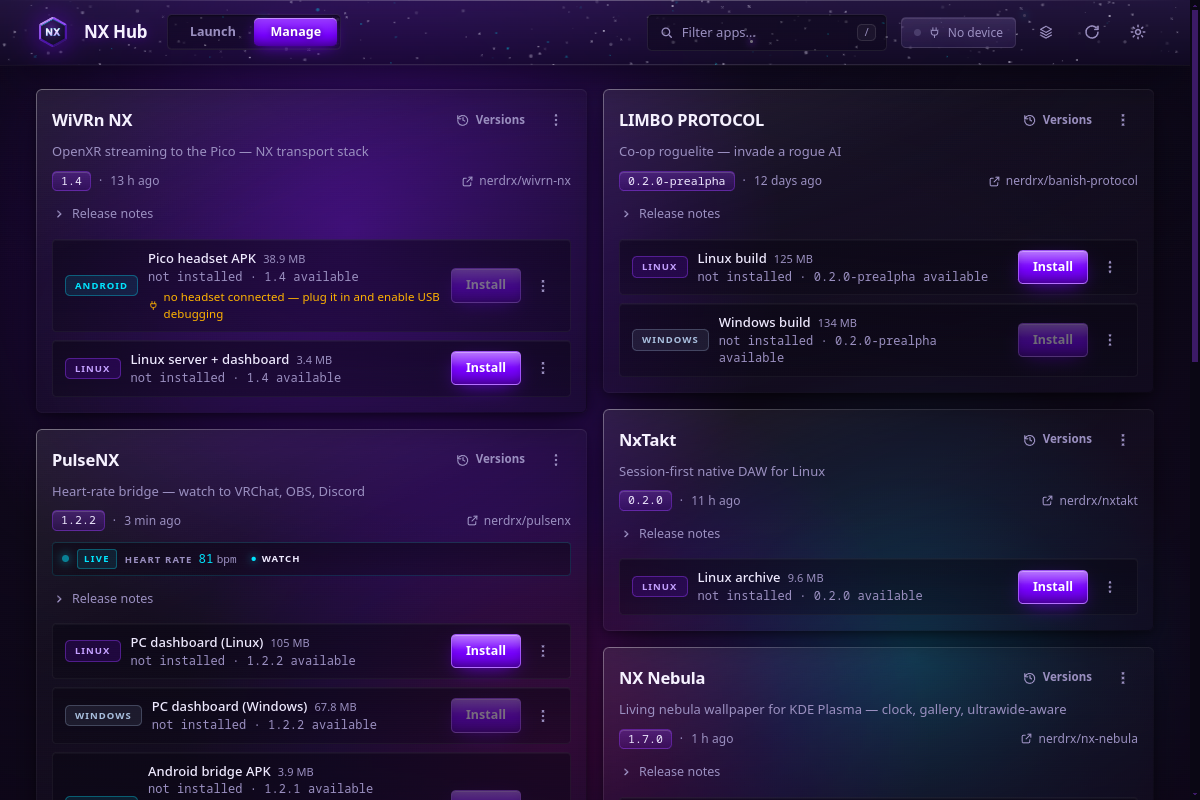
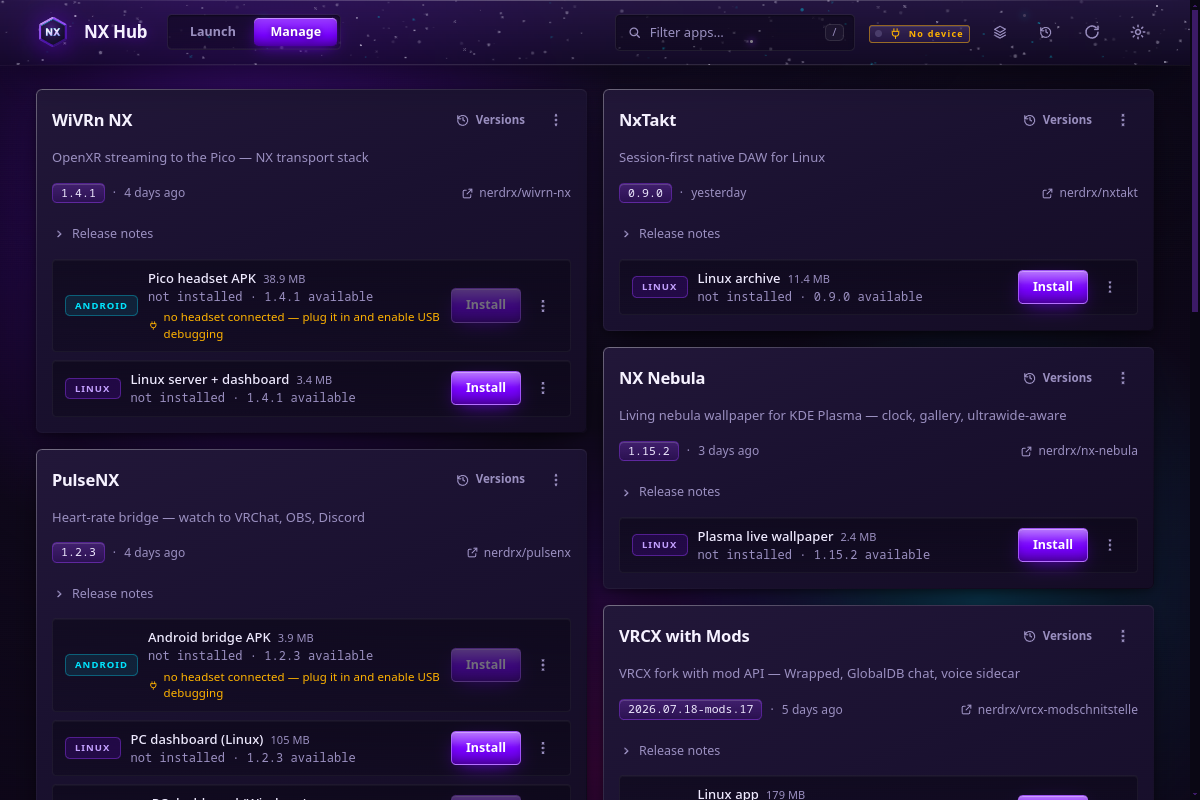
v0.9.0: §12's opacity rule promoted app-wide — structural surfaces are opaque elevation steps (--surface-1), floating glass fills ≥0.85; DESIGN v1.5; design doc + connector client now ship in the bundle

diff --git a/src/renderer/styles.css b/src/renderer/styles.css
@@ -44,10 +44,16 @@
   --glass-bar: linear-gradient(180deg, rgba(46, 30, 78, 0.62) 0%, rgba(18, 11, 34, 0.72) 100%);
   --glass-1: linear-gradient(157deg, rgba(255, 255, 255, 0.09) 0%, rgba(255, 255, 255, 0.026) 34%,
       rgba(23, 16, 40, 0.34) 100%);
-  --glass-2: linear-gradient(158deg, rgba(255, 255, 255, 0.1) 0%, rgba(255, 255, 255, 0.03) 30%,
-      rgba(19, 12, 34, 0.66) 100%);
+  /* Floating layers only (sheets/menus/toasts). §12 floor: fill ≥0.85 so
+     nothing behind a floating pane ever shows through its body. */
+  --glass-2: linear-gradient(158deg, rgba(46, 32, 74, 0.92) 0%, rgba(30, 20, 52, 0.9) 30%,
+      rgba(19, 12, 34, 0.9) 100%);
   --glass-chip: linear-gradient(180deg, rgba(255, 255, 255, 0.09) 0%, rgba(255, 255, 255, 0.028) 100%);
   --well: linear-gradient(180deg, rgba(7, 4, 16, 0.5) 0%, rgba(7, 4, 16, 0.32) 100%);
+  /* v0.9 (§12): STRUCTURAL surfaces are opaque — depth from elevation steps,
+     never see-through. The nebula lives BETWEEN the cards, not behind them. */
+  --surface-1: linear-gradient(157deg, #221739 0%, #1a1130 44%, #140c24 100%);
+  --surface-1-hover: linear-gradient(157deg, #271b41 0%, #1d1335 44%, #170e29 100%);
   --well-deep: linear-gradient(180deg, rgba(4, 2, 10, 0.62) 0%, rgba(4, 2, 10, 0.46) 100%);
 
   /* Blur strengths — only these three, so the cost is easy to reason about. */
@@ -399,7 +405,7 @@ body.sky-parked .neb {
   /* The app's own hue leaks into the glass — the icon reads as a light source
      sitting inside the pane, not a sticker on top of it. */
   background: radial-gradient(85% 60% at 50% 34%, hsl(var(--h, 265) 90% 60% / 0.16), transparent 70%),
-    var(--glass-1);
+    var(--surface-1);
   color: var(--text);
   font: inherit;
   cursor: pointer;
@@ -691,7 +697,7 @@ body.sky-parked .neb {
   border: none;
   border-radius: var(--radius);
   padding: var(--sp-2);
-  background: var(--glass-1);
+  background: var(--surface-1);
   /* The lit edge is directional (bright top-left); this keeps a card sitting in
      a dark patch of sky from losing its top edge entirely. */
   box-shadow: var(--shadow), inset 0 1px 0 rgba(255, 255, 255, 0.06);
@@ -703,6 +709,7 @@ body.sky-parked .neb {
   transition: transform var(--dur) var(--ease-spring), box-shadow var(--dur) var(--ease-soft);
 }
 .card:hover {
+  background: var(--surface-1-hover);
   transform: translateY(-3px);
   box-shadow: var(--shadow-lift);
 }
@@ -2671,7 +2678,7 @@ select.input option {
 /* The folder is gone. The tile stays so the user can find out and clean up,
    but it reads as inert: no amber invitation, no lit edge, just muted glass. */
 .tile-dev-broken .tile-hit {
-  background: var(--glass-1);
+  background: var(--surface-1);
 }
 .tile-dev-broken .tile-hit::before { background: var(--edge); }
 .tile-dev-broken .tile-mono { filter: saturate(0.25); }

diff --git a/docs/DESIGN.md b/docs/DESIGN.md
@@ -1,8 +1,8 @@
 # The NX Design Language
 
-**Version 1.4 · extracted from NX Hub v0.3.6 · amendments from PulseNX v1.2.1
-and the pointer-bound specular rule (2026-08-16) · §12 reskin rules from the
-Vencord NX theme (2026-08-20)**
+**Version 1.5 · extracted from NX Hub v0.9.0 · amendments from PulseNX v1.2.1,
+the pointer-bound specular rule (2026-08-16), §12 reskin rules from the
+Vencord NX theme, and §12's opacity rule promoted app-wide (2026-08-20)**
 
 This document is the canonical specification of the NX visual language —
 "liquid glass on deep space." It is written to be dropped into any project's
@@ -95,6 +95,9 @@ Copy these verbatim into `:root` (CSS) or mirror them as resources (Android
       rgba(19, 12, 34, 0.66) 100%);
   --glass-chip: linear-gradient(180deg, rgba(255, 255, 255, 0.09) 0%, rgba(255, 255, 255, 0.028) 100%);
   --well: linear-gradient(180deg, rgba(7, 4, 16, 0.5) 0%, rgba(7, 4, 16, 0.32) 100%);
+  /* v1.5: STRUCTURAL surfaces are opaque elevation steps (see §4) */
+  --surface-1: linear-gradient(157deg, #221739 0%, #1a1130 44%, #140c24 100%);
+  --surface-1-hover: linear-gradient(157deg, #271b41 0%, #1d1335 44%, #170e29 100%);
   --well-deep: linear-gradient(180deg, rgba(4, 2, 10, 0.62) 0%, rgba(4, 2, 10, 0.46) 100%);
 
   /* blur strengths — ONLY these three exist */
@@ -164,9 +167,20 @@ the cost.
 | Tier | Surfaces | Fill | Blur | Edge | Shadow |
 | --- | --- | --- | --- | --- | --- |
 | **Bar** | app header, floating toolbars | `--glass-bar` | `--blur-bar` (real) | 1px `--edge-top` top highlight | `--shadow-bar` |
-| **1 — Card** | content cards, tiles | `--glass-1` | **none — faked** | `--edge` gradient border | `--shadow` |
+| **1 — Card** | content cards, tiles | `--surface-1` (**opaque**) | none | `--edge` gradient border | `--shadow` |
 | **2 — Sheet** | modals, slide-overs, menus, toasts | `--glass-2` | `--blur-sheet` / `--blur-chip` (real) | `--edge-lit` | `--shadow-sheet` |
 | **Well** | recessed regions *inside* glass (list rows, code, logs) | `--well` / `--well-deep` | never | none or `--line` | inset only |
+
+**v1.5 — the opacity rule, promoted from §12.** What began as a reskin
+constraint proved to be the better look everywhere: **structural, always-
+present surfaces (cards, tiles, rails) are OPAQUE elevation steps**
+(`--surface-1`, hover steps to `--surface-1-hover`) — depth comes from surface
+steps and the lit edge, never from see-through. The nebula lives *between* the
+panels, not behind them. Translucency + real blur are reserved for layers that
+genuinely float (bars over scrolling content, sheets, menus, toasts), and a
+floating layer's fill stays **≥ 0.85 alpha** so nothing behind it shows
+through its body. `--glass-1` remains for legacy/edge uses but new structural
+surfaces take `--surface-1`.
 
 Implementation notes:
 
